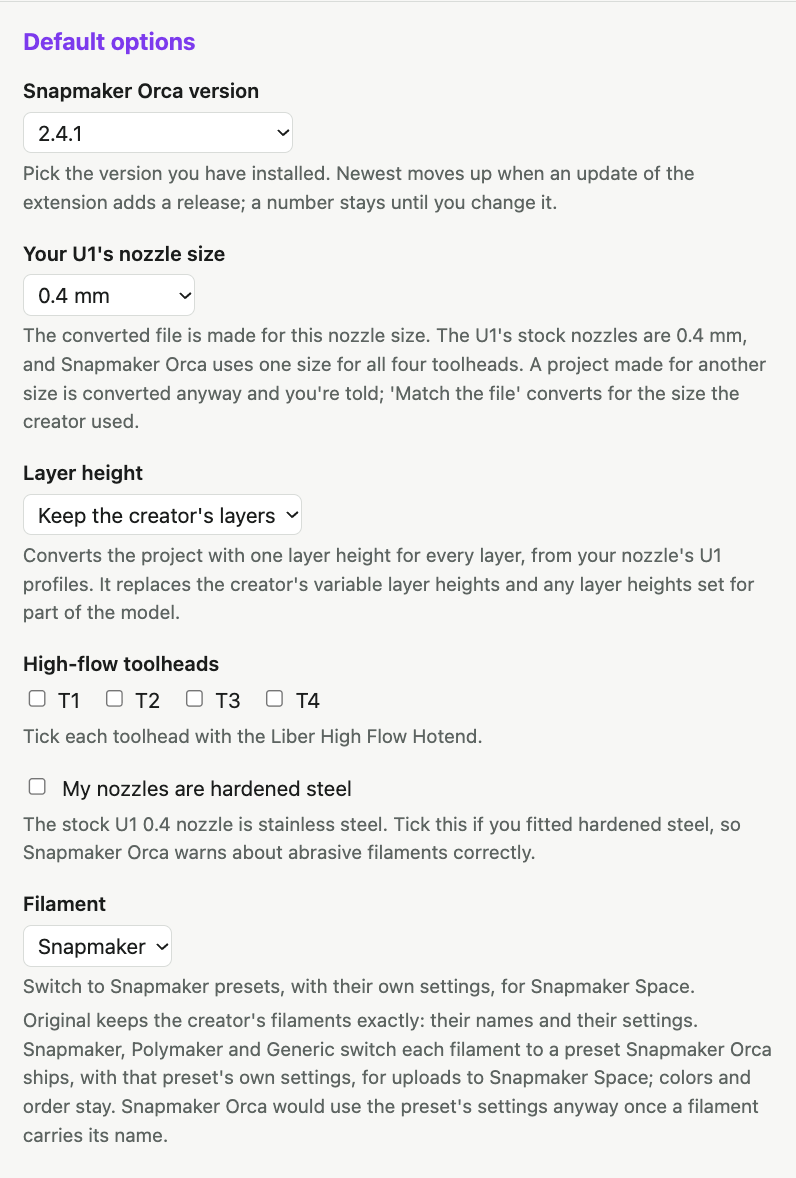
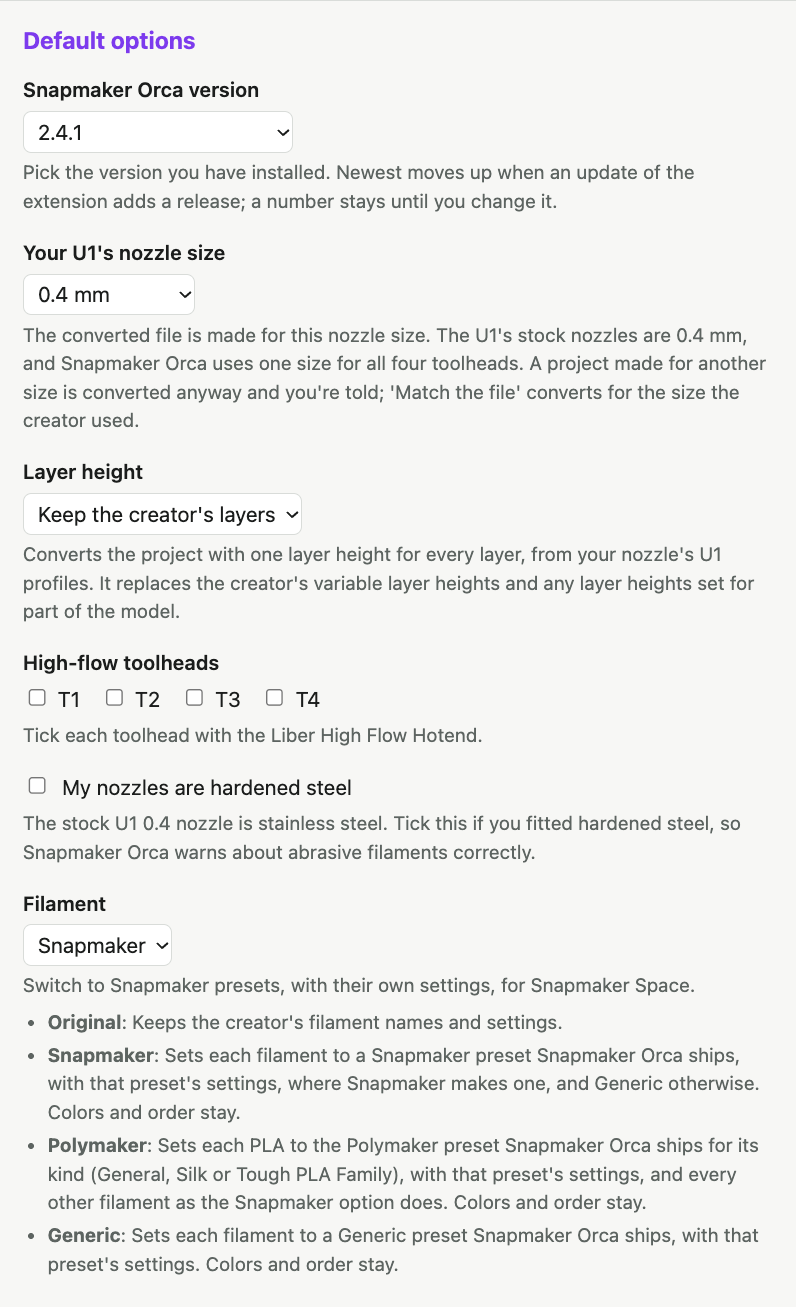
Help: the first-run tab points to Options, the Filament help has a line per choice, Sites with no offer says what it is, and Report a problem opens the bug report form
The line under Layer height with Match the file is shorter. The bug report
form and its security link are added for the new link to open.

Changed region(s): [[0.0302, 0.0, 0.9648, 0.9779], [0.6633, 0.6723, 0.8744, 0.7029]]

diff --git a/tests/e2e/convert-page.spec.ts b/tests/e2e/convert-page.spec.ts
@@ -4,6 +4,7 @@ import { convert } from "any2orca";
 import { bundledProfileSource } from "any2orca/node";
 import { expect, test } from "@playwright/test";
 import { strFromU8, strToU8, unzipSync, zipSync } from "fflate";
+import { REPORT_PROBLEM_URL } from "../../src/core/report";
 import { FILAMENT_HELP, NOZZLE_HELP } from "../../src/core/settings";
 import { FILAMENT_ROWS, LAYOUTS, textContrast, type FilamentRows, type TextContrast } from "../shared/layout";
 import { libraryVersion } from "./helpers";
@@ -521,7 +522,7 @@ for (const pause of [true, false]) {
 test("the Snapmaker option says, in the library's words, which filaments now use a preset's own settings; Original says nothing of it", async () => {
   const page = await session.open("convert.html");
   await page.locator("summary").click();
-  await expect(page.locator("#filament-names ~ .help").last()).toHaveText(FILAMENT_HELP);
+  await expect(page.locator("#filament-names ~ .help.choices li")).toHaveText([FILAMENT_HELP.original, FILAMENT_HELP.snapmaker, FILAMENT_HELP.polymaker, FILAMENT_HELP.generic].map((line, i) => `${["Original", "Snapmaker", "Polymaker", "Generic"][i]}: ${line}`));
   await page.selectOption("#filament-names", "snapmaker");
   await page.setInputFiles("#file", fixturePath(SAMPLE));
   const output = SAMPLE.replace(/\.3mf$/, "_U1.3mf");
@@ -801,6 +802,12 @@ test("a failure offers a report that names no file or address, and copies it", a
   await page.locator(".failed button.copy-report").click();
   await expect(page.locator(".failed button.copy-report")).toHaveText("Copied");
   expect(await written(page)).toEqual([shown]);
+  const link = page.locator(".failed").locator("a.report-link");
+  await expect(link).toHaveText("Report a problem");
+  await expect(link).toHaveAttribute("href", REPORT_PROBLEM_URL);
+  await expect(link).toHaveAttribute("target", "_blank");
+  await expect(link).toHaveAttribute("rel", "noopener noreferrer");
+
 });
 
 test("the settings page copies the versions, and says what a download manager does", async () => {
@@ -810,6 +817,15 @@ test("the settings page copies the versions, and says what a download manager do
   await expect(page.locator("#diagnostics .copy-report")).toHaveText("Copied");
   const [copied] = await written(page);
   expect(copied).toMatch(/^any2u1 diagnostics\nBrowser: Chrome \d+\nany2u1 0\.1\.0, any2orca \d+\.\d+\.\d+$/);
+  const link = page.locator("#diagnostics").locator("a.report-link");
+  await expect(link).toHaveText("Report a problem");
+  await expect(link).toHaveAttribute("href", REPORT_PROBLEM_URL);
+  await expect(link).toHaveAttribute("target", "_blank");
+  await expect(link).toHaveAttribute("rel", "noopener noreferrer");
+  // What the list of sites with no offer is, and how a site gets on it.
+  await expect(page.locator("section", { has: page.locator("h2", { hasText: "Sites with no offer" }) }).locator(".help")).toHaveText(
+    "Downloads from these sites get no offer. A site is added here when you click Not on and its name under one of its offers, and Remove brings its offers back. To convert a file from one of them, click the toolbar button and choose the file.",
+  );
   // The settings page, like the others, asks for nothing but the extension's own files.
   expectOnlyThese(session.requests, session.origin);
 });

diff --git a/src/core/settings.ts b/src/core/settings.ts
@@ -16,8 +16,16 @@ export const FILAMENT_CHOICES: Readonly<Record<FilamentNames, { label: string; d
 };
 
 /** The help under the Filament option, in the web app's words too. */
-export const FILAMENT_HELP =
-  "Original keeps the creator's filaments exactly: their names and their settings. Snapmaker, Polymaker and Generic switch each filament to a preset Snapmaker Orca ships, with that preset's own settings, for uploads to Snapmaker Space; colors and order stay. Snapmaker Orca would use the preset's settings anyway once a filament carries its name.";
+/**
+ * What each choice does, one line each, in the order shown, in the any2orca web app's words (its tooltip for each choice),
+ * so the two say the same. The line under the list says what the one chosen does in short.
+ */
+export const FILAMENT_HELP: Readonly<Record<FilamentNames, string>> = {
+  original: "Keeps the creator's filament names and settings.",
+  snapmaker: "Sets each filament to a Snapmaker preset Snapmaker Orca ships, with that preset's settings, where Snapmaker makes one, and Generic otherwise. Colors and order stay.",
+  polymaker: "Sets each PLA to the Polymaker preset Snapmaker Orca ships for its kind (General, Silk or Tough PLA Family), with that preset's settings, and every other filament as the Snapmaker option does. Colors and order stay.",
+  generic: "Sets each filament to a Generic preset Snapmaker Orca ships, with that preset's settings. Colors and order stay.",
+};
 
 /** Why Polymaker can't be chosen for a nozzle size, given the sizes Snapmaker Orca has Polymaker presets for: "… for the 0.4 mm nozzle only." */
 export function polymakerReason(sizes: readonly string[]): string {
@@ -42,7 +50,7 @@ export const NOZZLE_HELP =
 export const LAYER_HEIGHT_HELP =
   "Converts the project with one layer height for every layer, from your nozzle's U1 profiles. It replaces the creator's variable layer heights and any layer heights set for part of the model.";
 /** Under the Layer height option when the nozzle size is "Match the file": there is no one size to list heights for. */
-export const LAYER_HEIGHT_MATCH_HELP = "The layer heights to choose from depend on the nozzle size, so there are none with 'Match the file'.";
+export const LAYER_HEIGHT_MATCH_HELP = "Choose a nozzle size to choose a layer height.";
 /** The Layer height option's first choice: nothing is sent, and the creator's layers stay. */
 export const KEEP_LAYERS = "Keep the creator's layers";
 /** A layer height can't be more than this; the library refuses more. Only keeps a stored value sane: the catalog's list decides. */

diff --git a/tests/unit/notes.test.ts b/tests/unit/notes.test.ts
@@ -4,7 +4,7 @@ import { convert, filamentNotes, NOTE_TOPICS, type ConvertNote } from "any2orca"
 import { bundledProfileSource } from "any2orca/node";
 import { describe, expect, it } from "vitest";
 import { noteGroups, OTHER_TITLE, TOPIC_TITLES } from "../../src/core/notes";
-import { FILAMENT_HELP } from "../../src/core/settings";
+import { FILAMENT_HELP, FILAMENT_NAMES } from "../../src/core/settings";
 import { fixture, plateNotesProject, POLYMAKER, sharedToolheadProject, silkAndToughProject } from "../shared/fixtures";
 
 const sample = readFileSync(new URL("../fixtures/bambu-studio-2.8.4.57-beta.3mf", import.meta.url));
@@ -133,9 +133,14 @@ describe("a result's notes", () => {
 });
 
 describe("the Filament option's help", () => {
-  it("is the wording the any2orca web app uses", () => {
-    expect(FILAMENT_HELP).toBe(
-      "Original keeps the creator's filaments exactly: their names and their settings. Snapmaker, Polymaker and Generic switch each filament to a preset Snapmaker Orca ships, with that preset's own settings, for uploads to Snapmaker Space; colors and order stay. Snapmaker Orca would use the preset's settings anyway once a filament carries its name.",
-    );
+  it("is one line for each choice, in the any2orca web app's words (its tooltip for each)", () => {
+    expect(FILAMENT_HELP).toEqual({
+      original: "Keeps the creator's filament names and settings.",
+      snapmaker: "Sets each filament to a Snapmaker preset Snapmaker Orca ships, with that preset's settings, where Snapmaker makes one, and Generic otherwise. Colors and order stay.",
+      polymaker: "Sets each PLA to the Polymaker preset Snapmaker Orca ships for its kind (General, Silk or Tough PLA Family), with that preset's settings, and every other filament as the Snapmaker option does. Colors and order stay.",
+      generic: "Sets each filament to a Generic preset Snapmaker Orca ships, with that preset's settings. Colors and order stay.",
+    });
+    expect(Object.keys(FILAMENT_HELP)).toEqual([...FILAMENT_NAMES]);
   });
 });
+

diff --git a/tests/e2e/layers-and-filaments.spec.ts b/tests/e2e/layers-and-filaments.spec.ts
@@ -7,7 +7,7 @@ import { convert, filamentModeNozzleSizes, loadCatalog } from "any2orca";
 import { bundledProfileSource } from "any2orca/node";
 import { expect, test, type Page } from "@playwright/test";
 import { strFromU8, unzipSync } from "fflate";
-import { FILAMENT_CHOICES, FILAMENT_HELP, KEEP_LAYERS, LAYER_HEIGHT_HELP, LAYER_HEIGHT_MATCH_HELP, layerHeightsBySize, layerHeightText } from "../../src/core/settings";
+import { FILAMENT_CHOICES, FILAMENT_HELP, FILAMENT_NAMES, KEEP_LAYERS, LAYER_HEIGHT_HELP, LAYER_HEIGHT_MATCH_HELP, layerHeightsBySize, layerHeightText } from "../../src/core/settings";
 import { FILAMENT_ROWS, LAYOUTS, textContrast, type FilamentRows, type TextContrast } from "../shared/layout";
 import { expectOnlyThese, extensionPath, fixture, launch, POLYMAKER, setSettings, sha256, thinLayersProject, type Session } from "./helpers";
 
@@ -205,7 +205,8 @@ test("the Filament option lists Original, Snapmaker, Polymaker and Generic, says
   await expect(page.locator("#filament-names option")).toHaveText(["Original", "Snapmaker", "Polymaker", "Generic"]);
   await expect(page.locator("#filament-names")).toHaveValue("original");
   const field = page.locator(".field").filter({ has: page.locator("#filament-names") });
-  await expect(field.locator(".help").last()).toHaveText(FILAMENT_HELP);
+  // Under the line for the one chosen, a line for each choice, in the order of the list.
+  await expect(field.locator(".help.choices li")).toHaveText(FILAMENT_NAMES.map((choice) => `${FILAMENT_CHOICES[choice].label}: ${FILAMENT_HELP[choice]}`));
   for (const choice of ["snapmaker", "generic", "original", "polymaker"] as const) {
     await page.selectOption("#filament-names", choice);
     await expect(page.locator("#filament-choice")).toHaveText(FILAMENT_CHOICES[choice].description);

diff --git a/tests/e2e/first-run.spec.ts b/tests/e2e/first-run.spec.ts
@@ -30,7 +30,15 @@ test("installing opens one tab that says what happens on the next 3MF download, 
   const page = session.welcome!;
   expect(welcomeTabs(session)).toHaveLength(1);
   await expect(page.locator("#welcome h2")).toHaveText("Ready to convert");
-  await expect(page.locator("#welcome > p")).toHaveText("When a 3MF finishes downloading, a small window offers to convert it for your Snapmaker U1. You can also drop a file below at any time, or open this page with the any2u1 button.");
+  await expect(page.locator("#welcome > p")).toHaveText([
+    "When a 3MF finishes downloading, a small window offers to convert it for your Snapmaker U1. You can also drop a file below at any time, or open this page with the any2u1 button.",
+    "Each file is made for the Snapmaker Orca version and nozzle size set in Options, below. Check them before your first file, and set a layer height there if you want one.",
+  ]);
+  // Options is below, as the line says, and is where those three are.
+  const options = page.locator("details", { has: page.locator("summary", { hasText: "Options" }) });
+  expect((await options.boundingBox())!.y).toBeGreaterThan((await page.locator("#welcome-options").boundingBox())!.y);
+  await options.locator("summary").click();
+  for (const field of ["#orca-version", "#nozzle-size", "#layer-height"]) await expect(options.locator(field)).toBeVisible();
   // The page converts as it always does: the drop zone is right below.
   await expect(page.locator("#drop")).toBeVisible();
   const { isOnToolbar } = await session.worker.evaluate(() => chrome.action.getUserSettings());

diff --git a/tests/unit/report.test.ts b/tests/unit/report.test.ts
@@ -1,6 +1,6 @@
 // SPDX-License-Identifier: AGPL-3.0-or-later
 import { describe, expect, it } from "vitest";
-import { browserOf, diagnosticsReport, failureReport } from "../../src/core/report";
+import { browserOf, diagnosticsReport, failureReport, REPORT_PROBLEM_URL } from "../../src/core/report";
 
 describe("browserOf", () => {
   it("gives the browser and its major version, not the system", () => {
@@ -40,3 +40,14 @@ describe("diagnosticsReport", () => {
     expect(diagnosticsReport({ browser: "Edge 156", extensionVersion: "0.1.0", libraryVersion: "0.5.0" })).toBe("any2u1 diagnostics\nBrowser: Edge 156\nany2u1 0.1.0, any2orca 0.5.0");
   });
 });
+
+describe("where a report goes", () => {
+  it("is the project's bug report form, at a fixed https address that carries nothing from the report", () => {
+    const url = new URL(REPORT_PROBLEM_URL);
+    expect(url.protocol).toBe("https:");
+    expect(url.host).toBe("github.com");
+    expect(url.pathname).toBe("/KuzuriAo/any2u1/issues/new");
+    expect([...url.searchParams]).toEqual([["template", "bug_report.yml"]]);
+  });
+});
+

diff --git a/src/ui/report.ts b/src/ui/report.ts
@@ -1,7 +1,7 @@
 // SPDX-License-Identifier: AGPL-3.0-or-later
 /** A report the user can read and copy. What goes in it is decided in core/report.ts. */
 import { api } from "../browser";
-import { browserOf } from "../core/report";
+import { browserOf, REPORT_PROBLEM_URL } from "../core/report";
 import { button, el } from "./dom";
 
 export const environment = () => ({ browser: browserOf(navigator.userAgent), extensionVersion: api.runtime.getManifest().version, libraryVersion: __LIBRARY_VERSION__ });
@@ -18,5 +18,7 @@ export function reportBlock(text: string, label: string): HTMLElement {
       },
     );
   }, "link copy-report");
-  return el("div", { class: "report" }, copy, details);
+  // A fixed address, opened in a new tab: the page sends nothing itself, and the user pastes what they choose.
+  const link = el("a", { href: REPORT_PROBLEM_URL, target: "_blank", rel: "noopener noreferrer", class: "report-link" }, "Report a problem");
+  return el("div", { class: "report" }, copy, link, details);
 }

diff --git a/settings.html b/settings.html
@@ -36,6 +36,7 @@
       </section>
       <section>
         <h2>Sites with no offer</h2>
+        <p class="help">Downloads from these sites get no offer. A site is added here when you click <strong>Not on</strong> and its name under one of its offers, and Remove brings its offers back. To convert a file from one of them, click the toolbar button and choose the file.</p>
         <ul id="quiet" class="list"></ul>
       </section>
       <section>
@@ -53,7 +54,7 @@
       </section>
       <section>
         <h2>Diagnostics</h2>
-        <p class="help">The versions in use, to paste into a bug report. It names no file, site or address.</p>
+        <p class="help">The versions in use, to paste into a problem report. It names no file, site or address.</p>
         <div id="diagnostics"></div>
       </section>
       <footer>

diff --git a/src/ui/style.css b/src/ui/style.css
@@ -47,6 +47,9 @@ a { color: var(--accent); }
 /* The browser draws checkboxes and radio buttons in this color, so they match the buttons and links. */
 input[type="checkbox"], input[type="radio"] { accent-color: var(--accent); }
 .help { color: var(--muted); font-size: 0.85rem; }
+ul.help.choices { margin: 0.35rem 0 0; padding-left: 1.1rem; }
+ul.help.choices li + li { margin-top: 0.2rem; }
+.report-link { margin-left: 1rem; }
 .tip { background: var(--tip); color: var(--tip-ink); border-radius: 6px; padding: 0.55rem 0.7rem; font-size: 0.87rem; margin-top: 0.6rem; }
 .progress { display: flex; flex-wrap: wrap; align-items: baseline; gap: 0.2rem 0.8rem; margin-bottom: 1rem; }
 .progress:has(#status:empty) { display: none; }

diff --git a/convert.html b/convert.html
@@ -14,6 +14,7 @@
       <section id="welcome" hidden>
         <h2 class="section-title">Ready to convert</h2>
         <p>When a 3MF finishes downloading, a small window offers to convert it for your Snapmaker U1. You can also drop a file below at any time, or open this page with the any2u1 button.</p>
+        <p id="welcome-options">Each file is made for the Snapmaker Orca version and nozzle size set in <strong>Options</strong>, below. Check them before your first file, and set a layer height there if you want one.</p>
         <div class="tip pin">
           <p id="pin-state" role="status"></p>
           <p id="pin-steps"></p>

diff --git a/src/core/report.ts b/src/core/report.ts
@@ -5,6 +5,9 @@
  * can name something inside the file).
  */
 
+/** Where a report goes: a new issue on the project's tracker, with the bug report form. */
+export const REPORT_PROBLEM_URL = "https://github.com/KuzuriAo/any2u1/issues/new?template=bug_report.yml";
+
 export type ReportFacts = {
   code?: string;
   /** With `unsupported_slicer`: the slicer's name, as the library gives it. */

diff --git a/src/ui/optionsForm.ts b/src/ui/optionsForm.ts
@@ -186,6 +186,6 @@ export function renderOptions(
       filament,
       filamentChoice,
       polymakerWhy,
-      el("p", { class: "help" }, FILAMENT_HELP)),
+      el("ul", { class: "help choices" }, ...FILAMENT_NAMES.map((choice) => el("li", {}, el("strong", {}, FILAMENT_CHOICES[choice].label), ": ", FILAMENT_HELP[choice])))),
   );
 }
